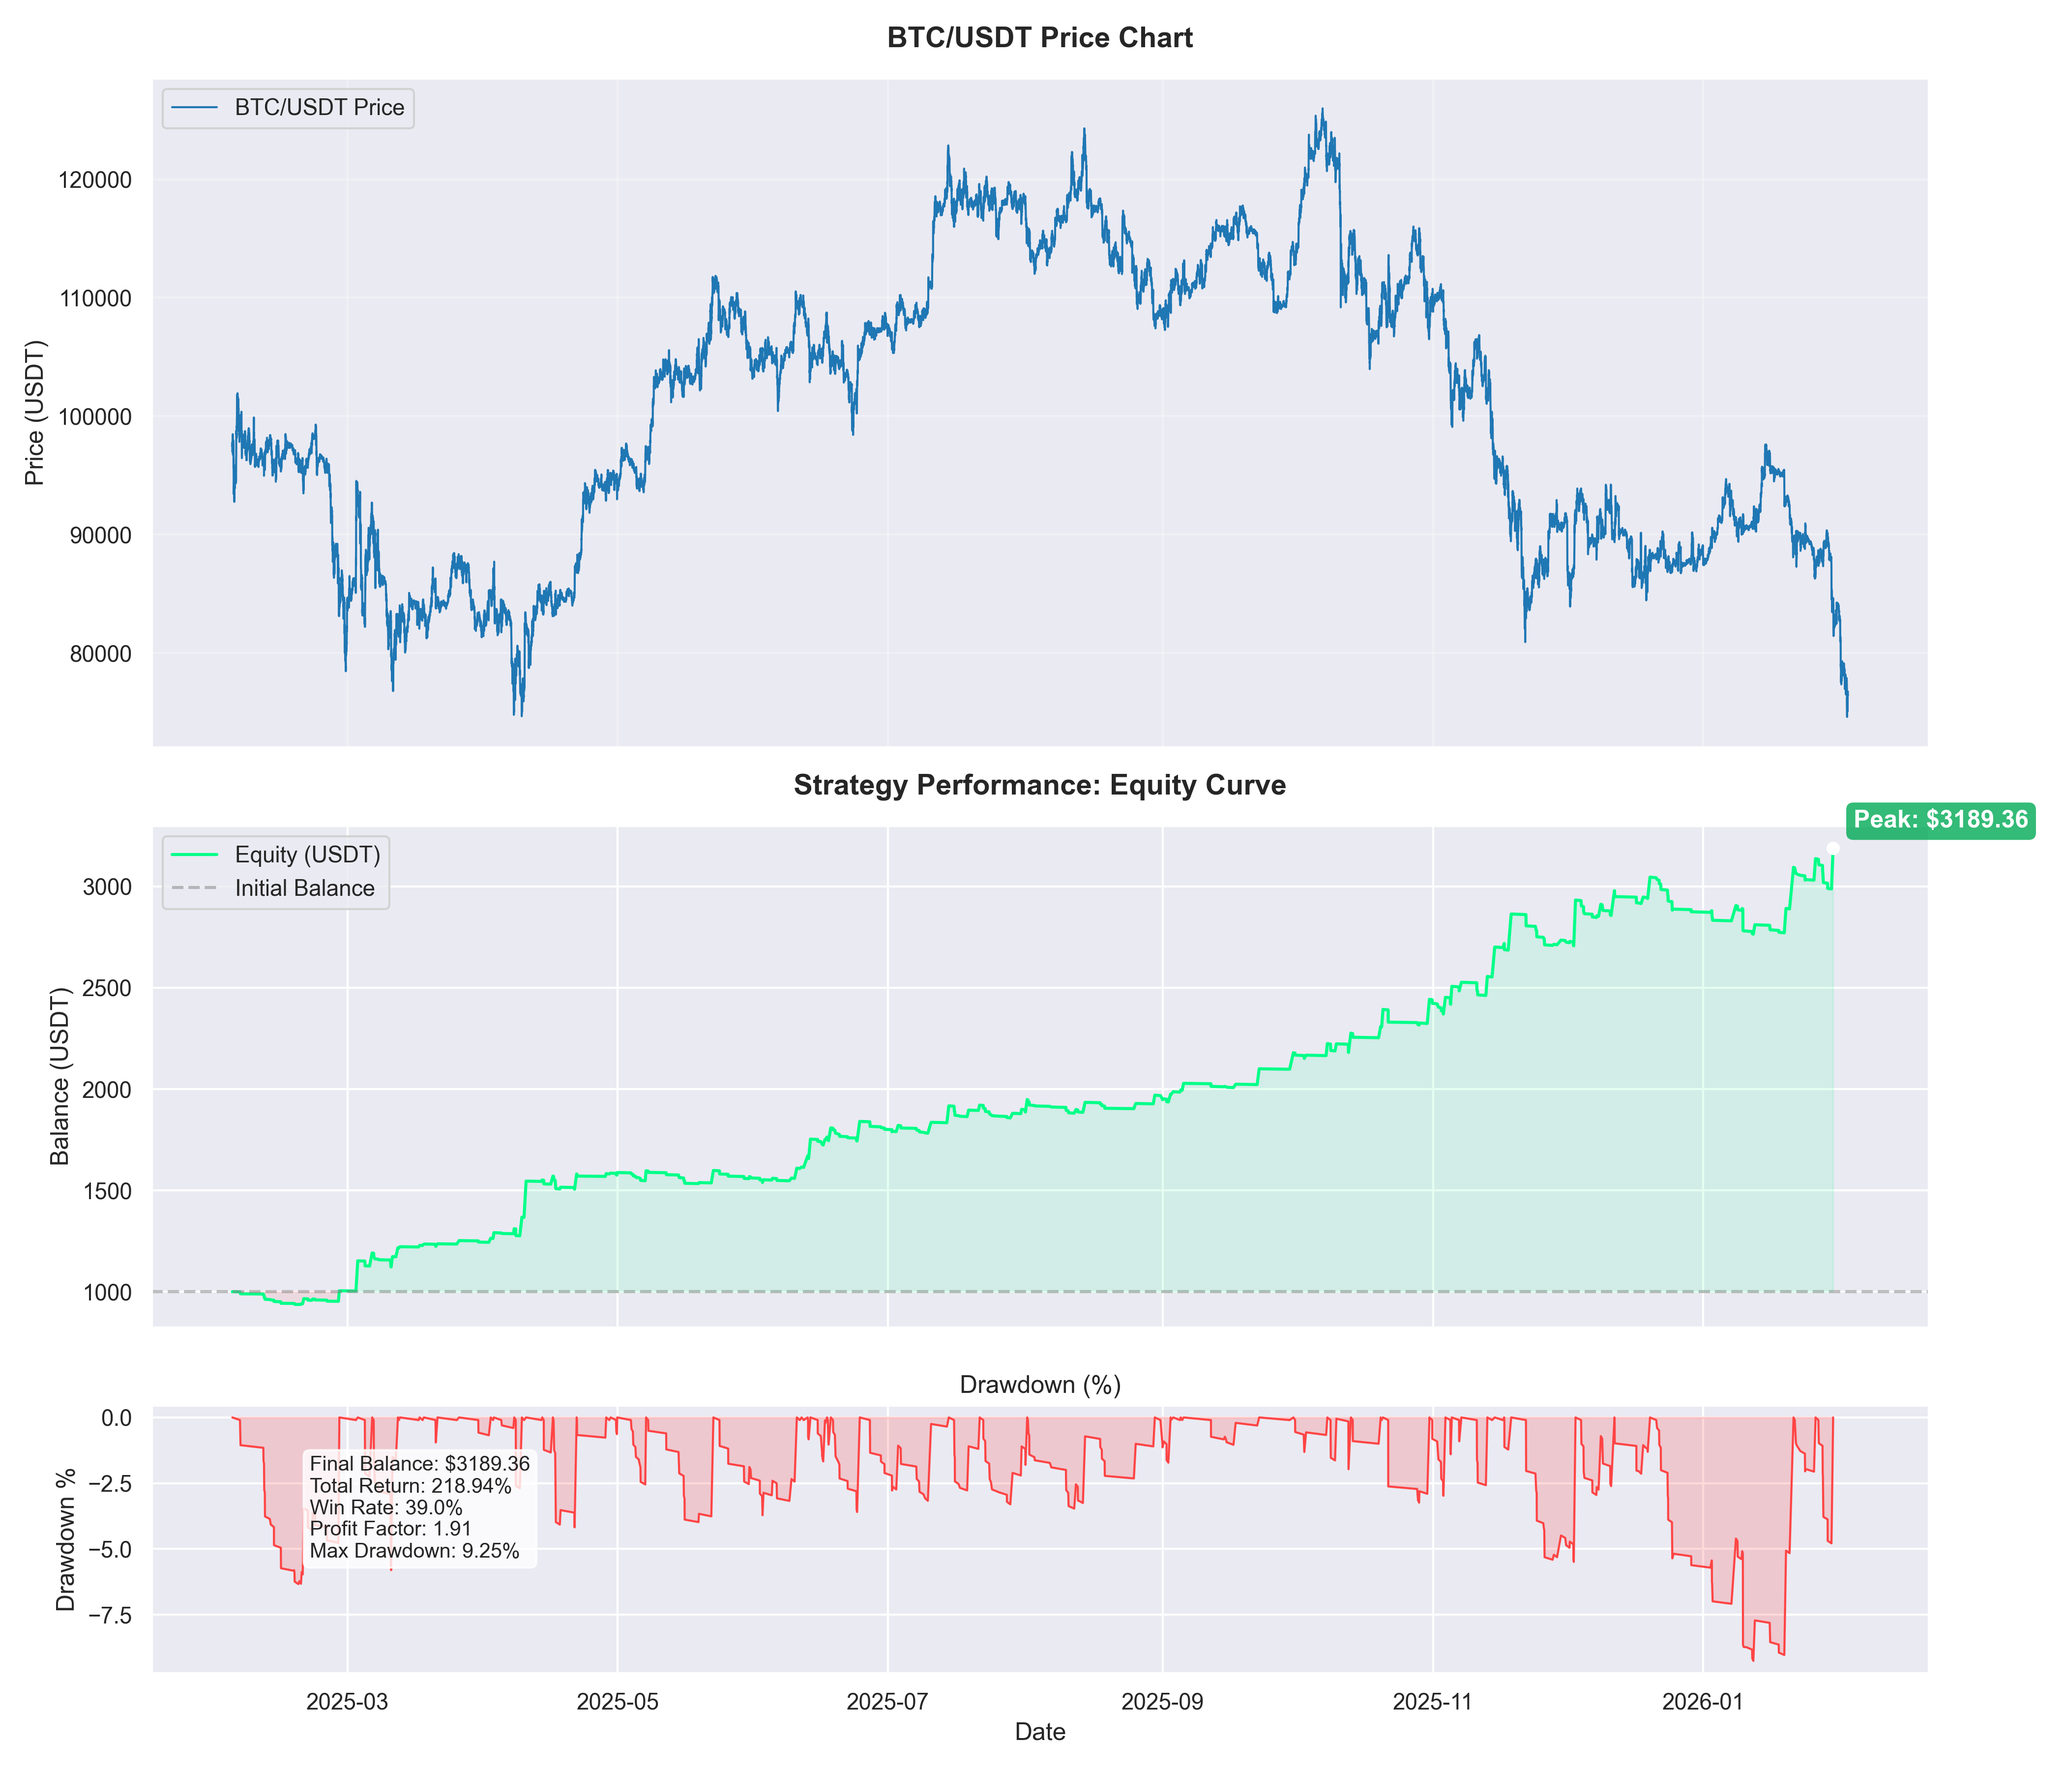
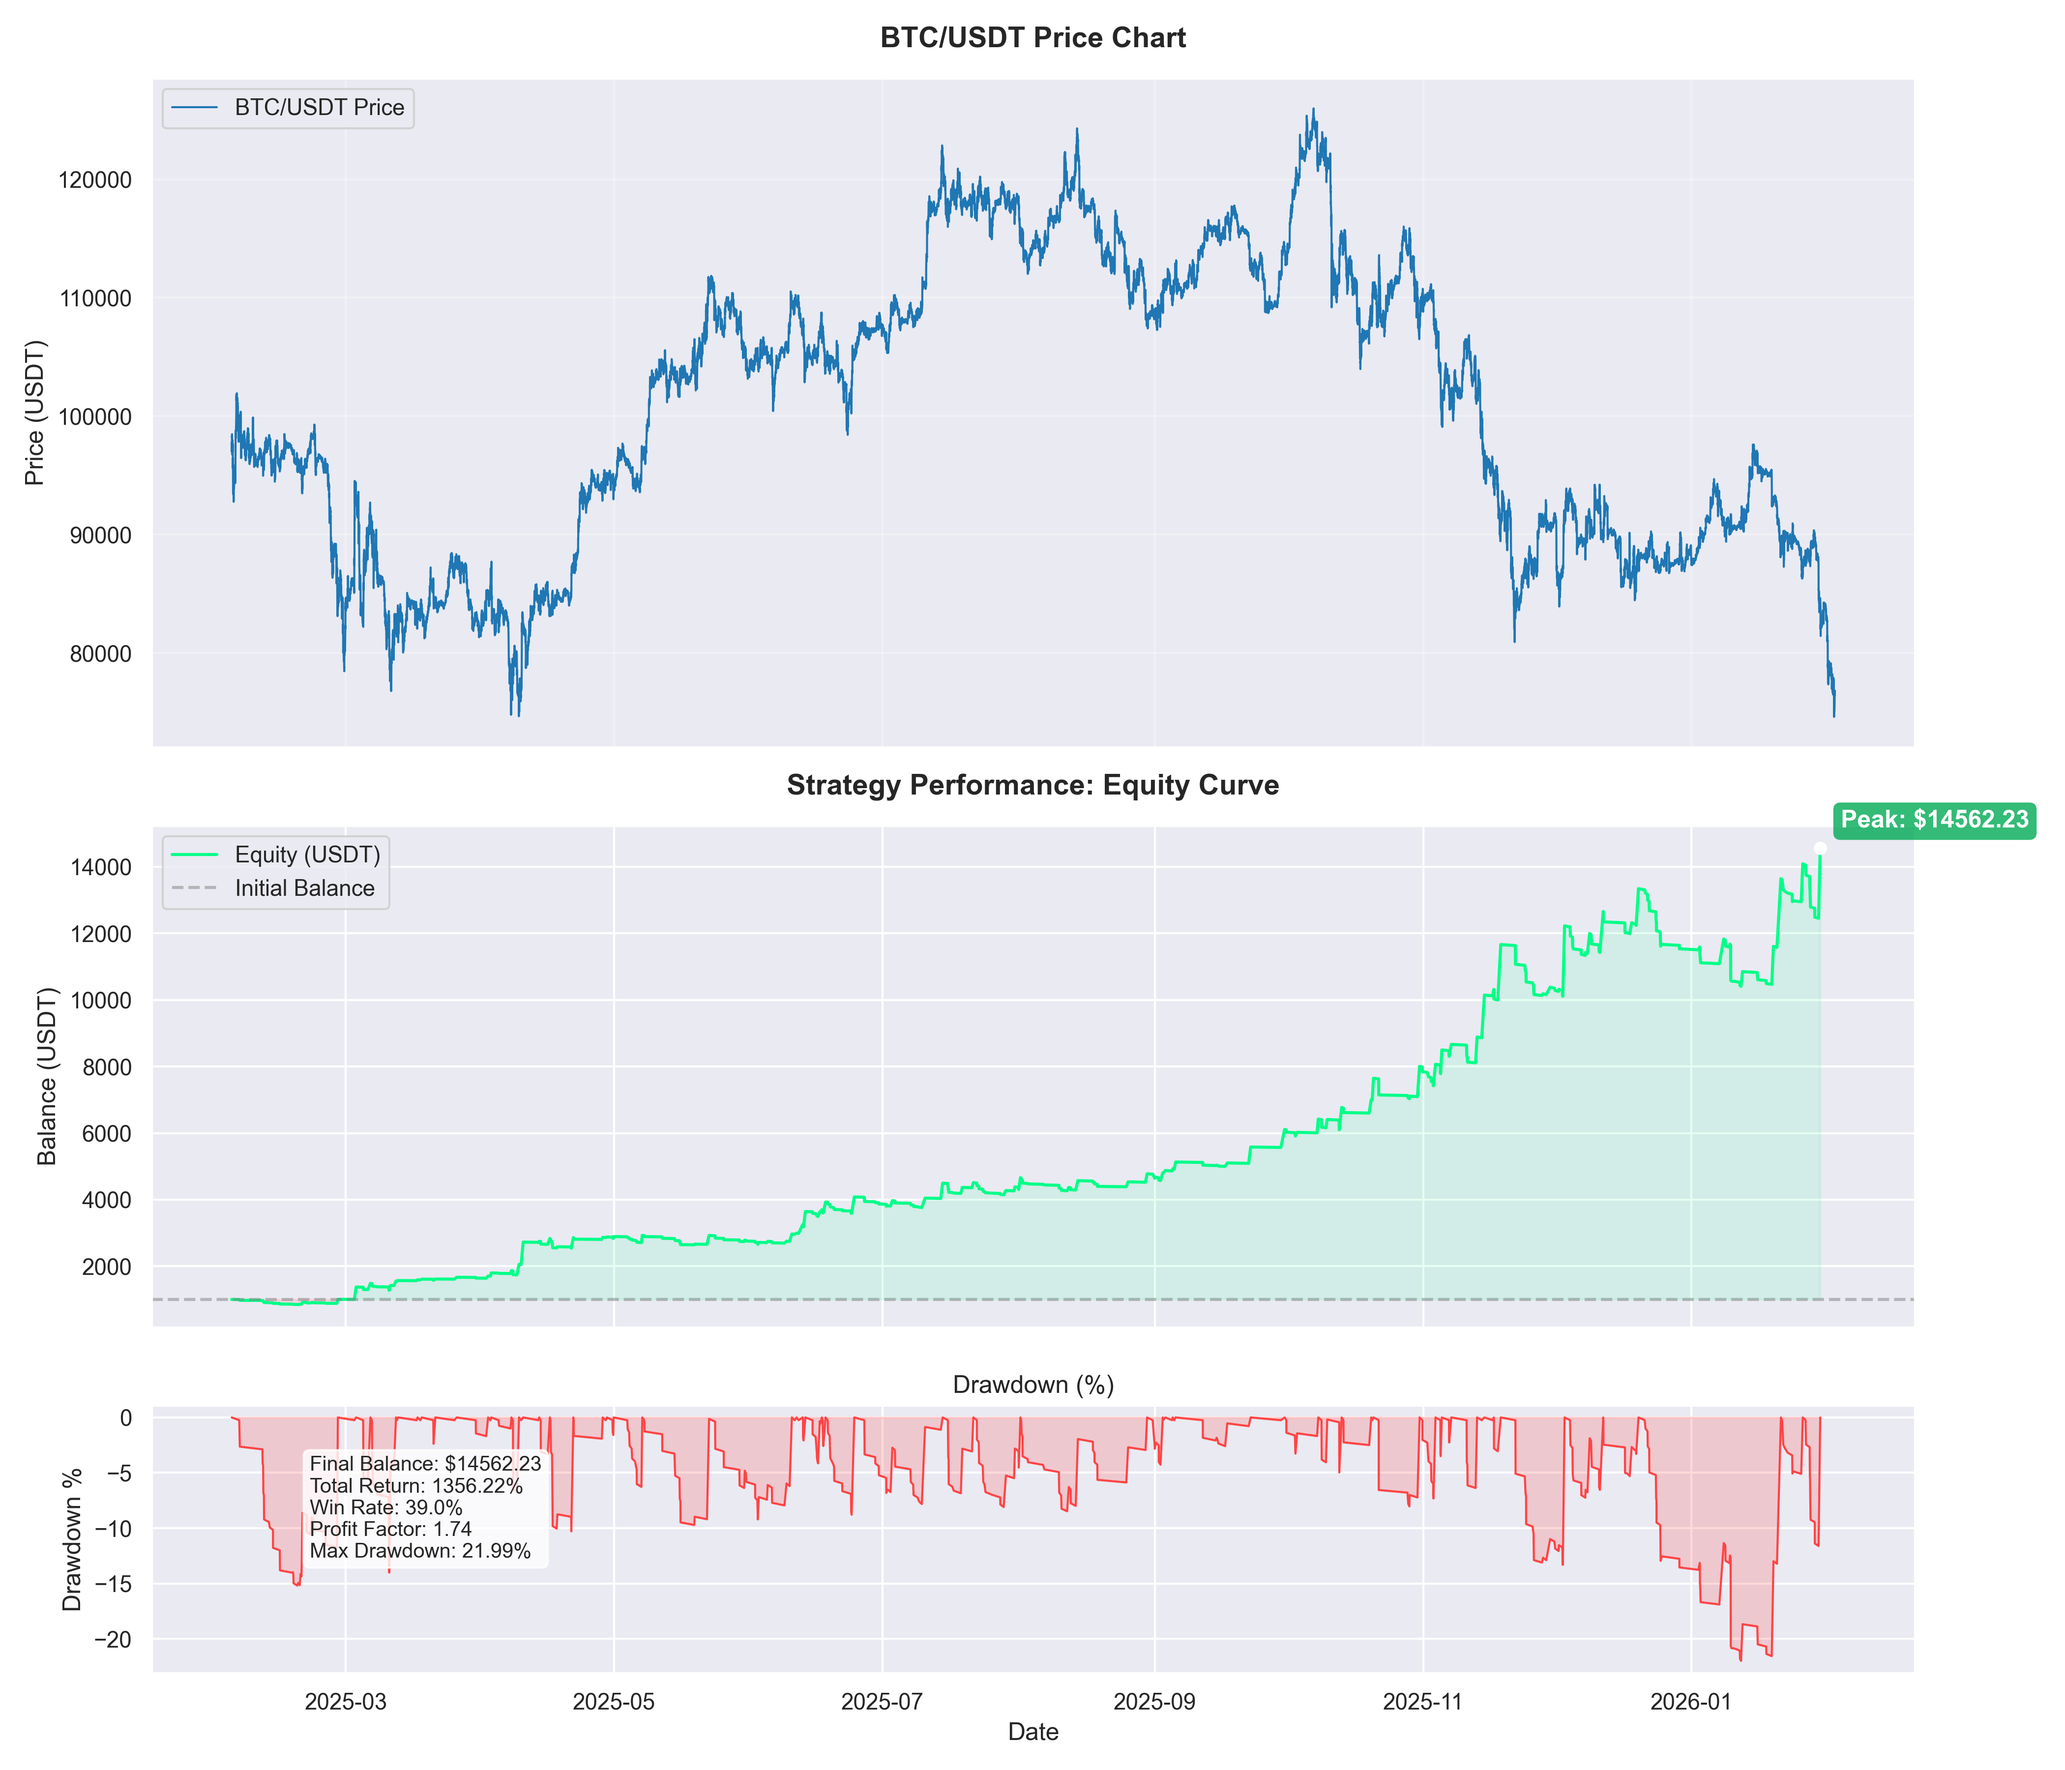
feat: Implement liquidation logic in the backtesting engine, adjust leverage in config, and add a performance summary image.

diff --git a/backtest.py b/backtest.py
@@ -19,6 +19,7 @@ def simulate(df, use_ema_filter=True, st_length=SUPERTREND_LENGTH, st_factor=SUP
     balance = initial_balance
     position_amt = 0 
     entry_price = 0
+    liquidation_price = 0
     stop_loss_price = 0
     partial_tp_hit = False
     take_profit_price = 0
@@ -49,6 +50,39 @@ def simulate(df, use_ema_filter=True, st_length=SUPERTREND_LENGTH, st_factor=SUP
             tf_seconds = parse_timeframe_to_seconds(TIMEFRAME)
             execution_time = timestamp + pd.Timedelta(seconds=tf_seconds)
         
+
+        # 0. LIQUIDATION CHECK
+        if position_amt != 0:
+            # Liquidation threshold: 100/Leverage % move against position
+            # Simply: Check if price hits Liquidation Price
+            # Used Entry Price for reference. 
+            
+            liq_hit = False
+            if position_amt > 0: # Long
+                if current_candle['low'] <= liquidation_price:
+                    liq_hit = True
+                    liq_price_trigger = liquidation_price
+            else: # Short
+                if current_candle['high'] >= liquidation_price:
+                    liq_hit = True
+                    liq_price_trigger = liquidation_price
+            
+            if liq_hit:
+                # Liquidated!
+                # Loss = Margin Collateral. 
+                # Margin = Trade Value / Leverage
+                # Effective PnL = -Margin
+                # Actually, in cross margin, you lose more, but here we assume isolated risk per trade for simplicity 
+                # or just max loss equal to initial margin assigned.
+                
+                margin_lost = (abs(position_amt) * entry_price) / leverage
+                pnl = -margin_lost
+                balance += pnl # Deduct margin
+                
+                trades.append({'time': execution_time, 'type': 'LIQUIDATION', 'price': liq_price_trigger, 'pnl': pnl})
+                position_amt = 0
+                continue # Skip other exit checks
+
         # 1. EXIT LOGIC
         pnl = 0
         fee = 0
@@ -138,6 +172,14 @@ def simulate(df, use_ema_filter=True, st_length=SUPERTREND_LENGTH, st_factor=SUP
             position_amt = amount if signal == 'LONG' else -amount
             entry_price = price
             
+            # Calculate Liquidation Price (Bankruptcy Price approximation)
+            # Long Liq = Entry * (1 - 1/Leverage)
+            # Short Liq = Entry * (1 + 1/Leverage)
+            if signal == 'LONG':
+                liquidation_price = entry_price * (1 - 1/leverage)
+            else:
+                liquidation_price = entry_price * (1 + 1/leverage)
+            
             # Set Dynamic Stop Loss based on ATR
             atr_val = current_candle['ATR']
             if signal == 'LONG':
@@ -173,7 +215,7 @@ def simulate(df, use_ema_filter=True, st_length=SUPERTREND_LENGTH, st_factor=SUP
             is_open = True
         elif 'PARTIAL_TP' in t['type']:
             current_trade_pnl += t['pnl']
-        elif any(x in t['type'] for x in ['CLOSE', 'STOP_LOSS', 'FINAL_CLOSE']):
+        elif any(x in t['type'] for x in ['CLOSE', 'STOP_LOSS', 'FINAL_CLOSE', 'LIQUIDATION']):
             current_trade_pnl += t['pnl']
             if is_open:
                 trade_cycles.append(current_trade_pnl)

diff --git a/config.py b/config.py
@@ -15,7 +15,7 @@ TIMEFRAME = "15m"             # Changed to 15m to reduce noise and fees
 SUPERTREND_LENGTH = 16
 SUPERTREND_FACTOR = 1.45       # Higher factor = more stable trend
 EMA_LENGTH = 106              # Stronger trend filter
-LEVERAGE = 10                 # Optimal leverage for BTC
+LEVERAGE = 25                 # Optimal leverage for BTC
 POSITION_SIZE_PERCENT = 0.2   # Use 30% of balance per position (Balanced Risk/Reward)
 MAX_TRADES_PER_HOUR = 5       # Safety: Limit trades per hour to prevent API spam
 ADX_LENGTH = 14               # Standard ADX length
